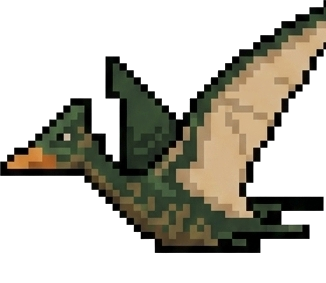
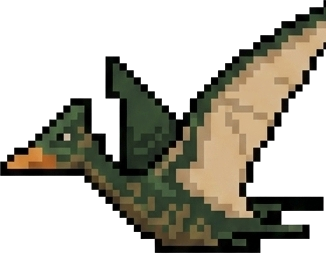
end edit

diff --git a/script.js b/script.js
@@ -123,9 +123,19 @@ let obstacles = [];
 // Ground obstacles are auto-cropped PNGs now (no leftover transparent
 // padding), so h/w map 1:1 onto the visible sprite and `y = GROUND_Y - h`
 // always lands them exactly on the ground line.
-const GROUND_OBSTACLE_H = { min: 66, max: 102 };
+// Kept comfortably smaller than the player (like classic obstacle/character
+// proportions) so every obstacle is realistically jumpable.
+const GROUND_OBSTACLE_H = { min: 58, max: 82 };
 
-const FLY_OBSTACLE_H = 66;
+const FLY_OBSTACLE_H = 66; // display height for the reference (wing-up) frame
+// ptero1 (wing-up) and ptero2 (wing-down) sprites are NOT the same native
+// scale/aspect, so instead of stretching both into one identical box
+// (which made one frame look bigger than the other) each frame is drawn
+// at its own correct aspect ratio and anchored by the beak-tip position,
+// which is embedded here as a fraction of each sprite's own height.
+// This keeps the head fixed in place while the wing swings above/below it.
+const PTERO_BEAK_FRAC = { ptero1: 0.6614, ptero2: 0.2246 };
+
 // Heights are derived from the (now correct) PLAYER_H so the "low"
 // pterodactyl always forces a jump and the "high" one always clears a
 // standing player's head with a safe margin.
@@ -140,10 +150,9 @@ function spawnObstacle() {
   const isFlying = Math.random() < 0.28;
 
   if (isFlying) {
-    // ptero1/ptero2 have been pre-aligned to an identical canvas size
-    // (same aspect ratio for both flap frames), so a single aspect
-    // value here keeps both frames the same displayed size - no more
-    // size-mismatch flicker between the wing-up/wing-down frames.
+    // Reference box (used for spawn position + collision) is sized from
+    // ptero1 (the wing-up frame). ptero2 is drawn using its own aspect at
+    // render time - see drawObstacles().
     const aspect = images.ptero1.width / images.ptero1.height;
     const h = FLY_OBSTACLE_H;
     const w = h * aspect;
@@ -162,7 +171,7 @@ function spawnObstacle() {
     const key = useCow ? pick(COW_KEYS) : pick(EGG_KEYS);
     const img = images[key];
     const aspect = img.width / img.height;
-    const h = randInt(GROUND_OBSTACLE_H.min, GROUND_OBSTACLE_H.max) * (useCow ? 1.05 : 0.85);
+    const h = randInt(GROUND_OBSTACLE_H.min, GROUND_OBSTACLE_H.max) * (useCow ? 1.0 : 0.85);
     const w = h * aspect;
     obstacles.push({
       type: 'ground',
@@ -179,9 +188,9 @@ function spawnObstacle() {
 // World state
 // ---------------------------------------------------------
 let state = 'ready'; // ready | playing | gameover
-const SPEED_START = 5.5;
-const SPEED_MAX = 12.5;
-const SPEED_ACCEL = 0.0022; // px/frame^2 - gentle, steady ramp (like the classic dino game)
+const SPEED_START = 6.5;
+const SPEED_MAX = 14;
+const SPEED_ACCEL = 0.003; // px/frame^2 - reaches max in well under a minute
 let speed = SPEED_START;
 let distance = 0;
 let score = 0;
@@ -195,12 +204,12 @@ let clouds = [];
 // ---------------------------------------------------------
 // Total airtime of a jump (frame-units), from launch back to ground level.
 const JUMP_AIR_TIME = (2 * Math.abs(JUMP_VELOCITY)) / GRAVITY;
-const GAP_SAFETY_FACTOR = 1.55; // generous margin so jumps always clear in time
-const GAP_EXTRA_BUFFER = 110;   // covers obstacle width + reaction time
+const GAP_SAFETY_FACTOR = 1.3; // margin so jumps always clear in time, without being empty/sparse
+const GAP_EXTRA_BUFFER = 70;   // covers obstacle width + reaction time
 
 function computeSpawnGap(currentSpeed) {
   const minGap = currentSpeed * JUMP_AIR_TIME * GAP_SAFETY_FACTOR + GAP_EXTRA_BUFFER;
-  const maxGap = minGap * 1.45; // some variety, but never below the safe minimum
+  const maxGap = minGap * 1.4; // some variety, but never below the safe minimum
   return rand(minGap, maxGap);
 }
 
@@ -278,8 +287,20 @@ function drawPlayer() {
 function drawObstacles() {
   obstacles.forEach((o) => {
     if (o.type === 'fly') {
-      const img = o.flapFrame === 0 ? images.ptero1 : images.ptero2;
-      ctx.drawImage(img, o.x, o.y, o.w, o.h);
+      // Draw whichever flap frame at ITS OWN aspect ratio (never force-fit
+      // both frames into one box - that's what made them look mismatched),
+      // scaled so o.h (the ptero1 reference height) sets the common scale,
+      // then shifted so the beak-tip anchor lines up between frames.
+      const isFrame1 = o.flapFrame === 0;
+      const img = isFrame1 ? images.ptero1 : images.ptero2;
+      const key = isFrame1 ? 'ptero1' : 'ptero2';
+      const scale = o.h / images.ptero1.height;
+      const dw = img.width * scale;
+      const dh = img.height * scale;
+      const beakY = dh * PTERO_BEAK_FRAC[key];
+      const refBeakY = o.h * PTERO_BEAK_FRAC.ptero1;
+      const dy = o.y + (refBeakY - beakY);
+      ctx.drawImage(img, o.x, dy, dw, dh);
     } else {
       ctx.drawImage(images[o.key], o.x, o.y, o.w, o.h);
     }
